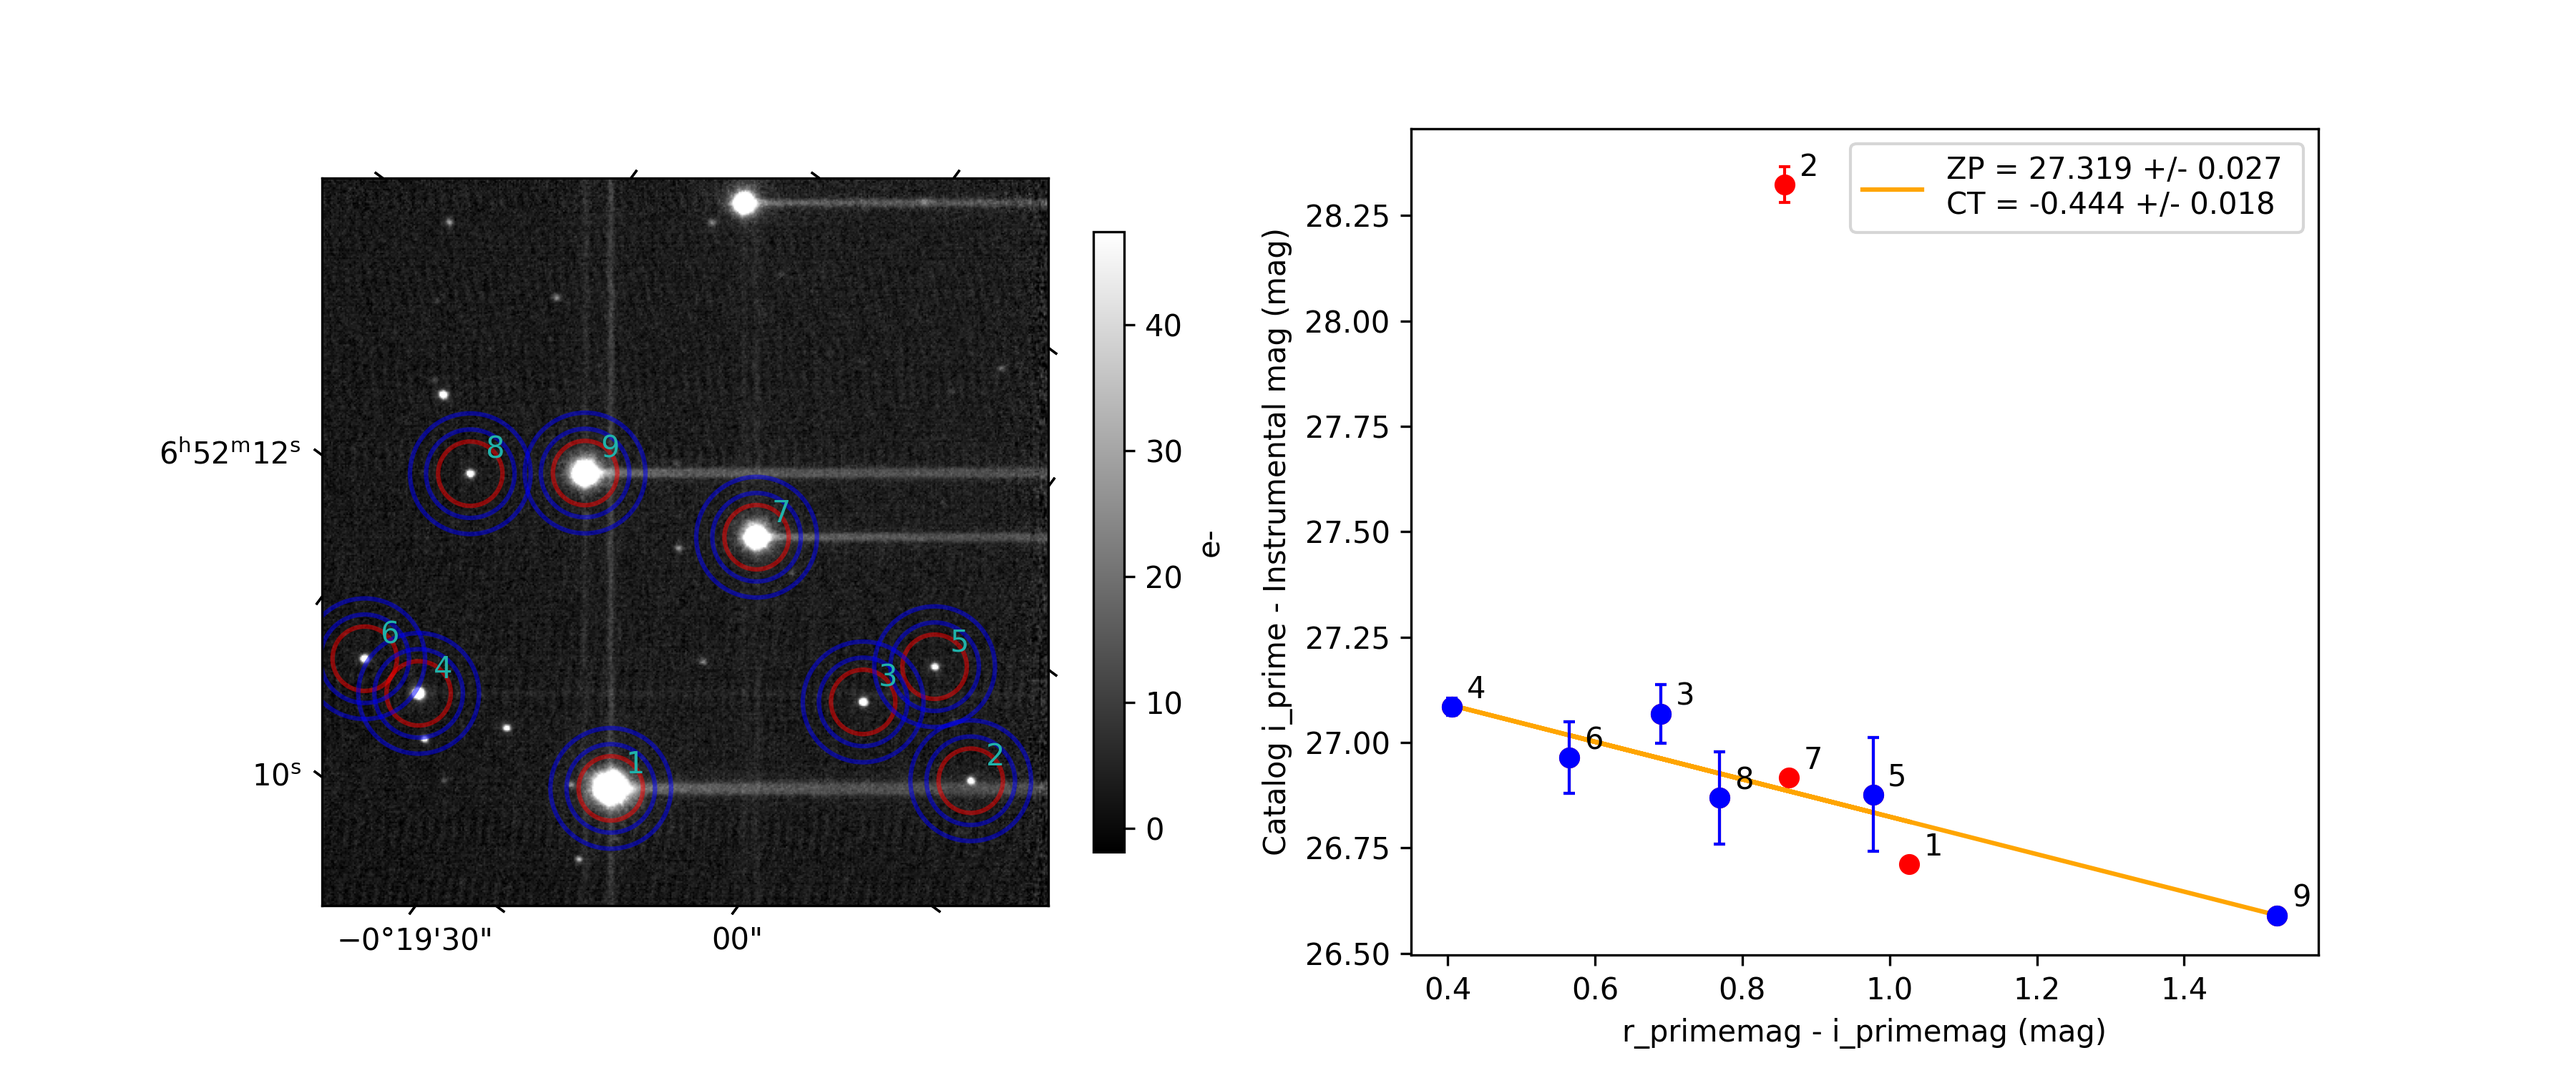
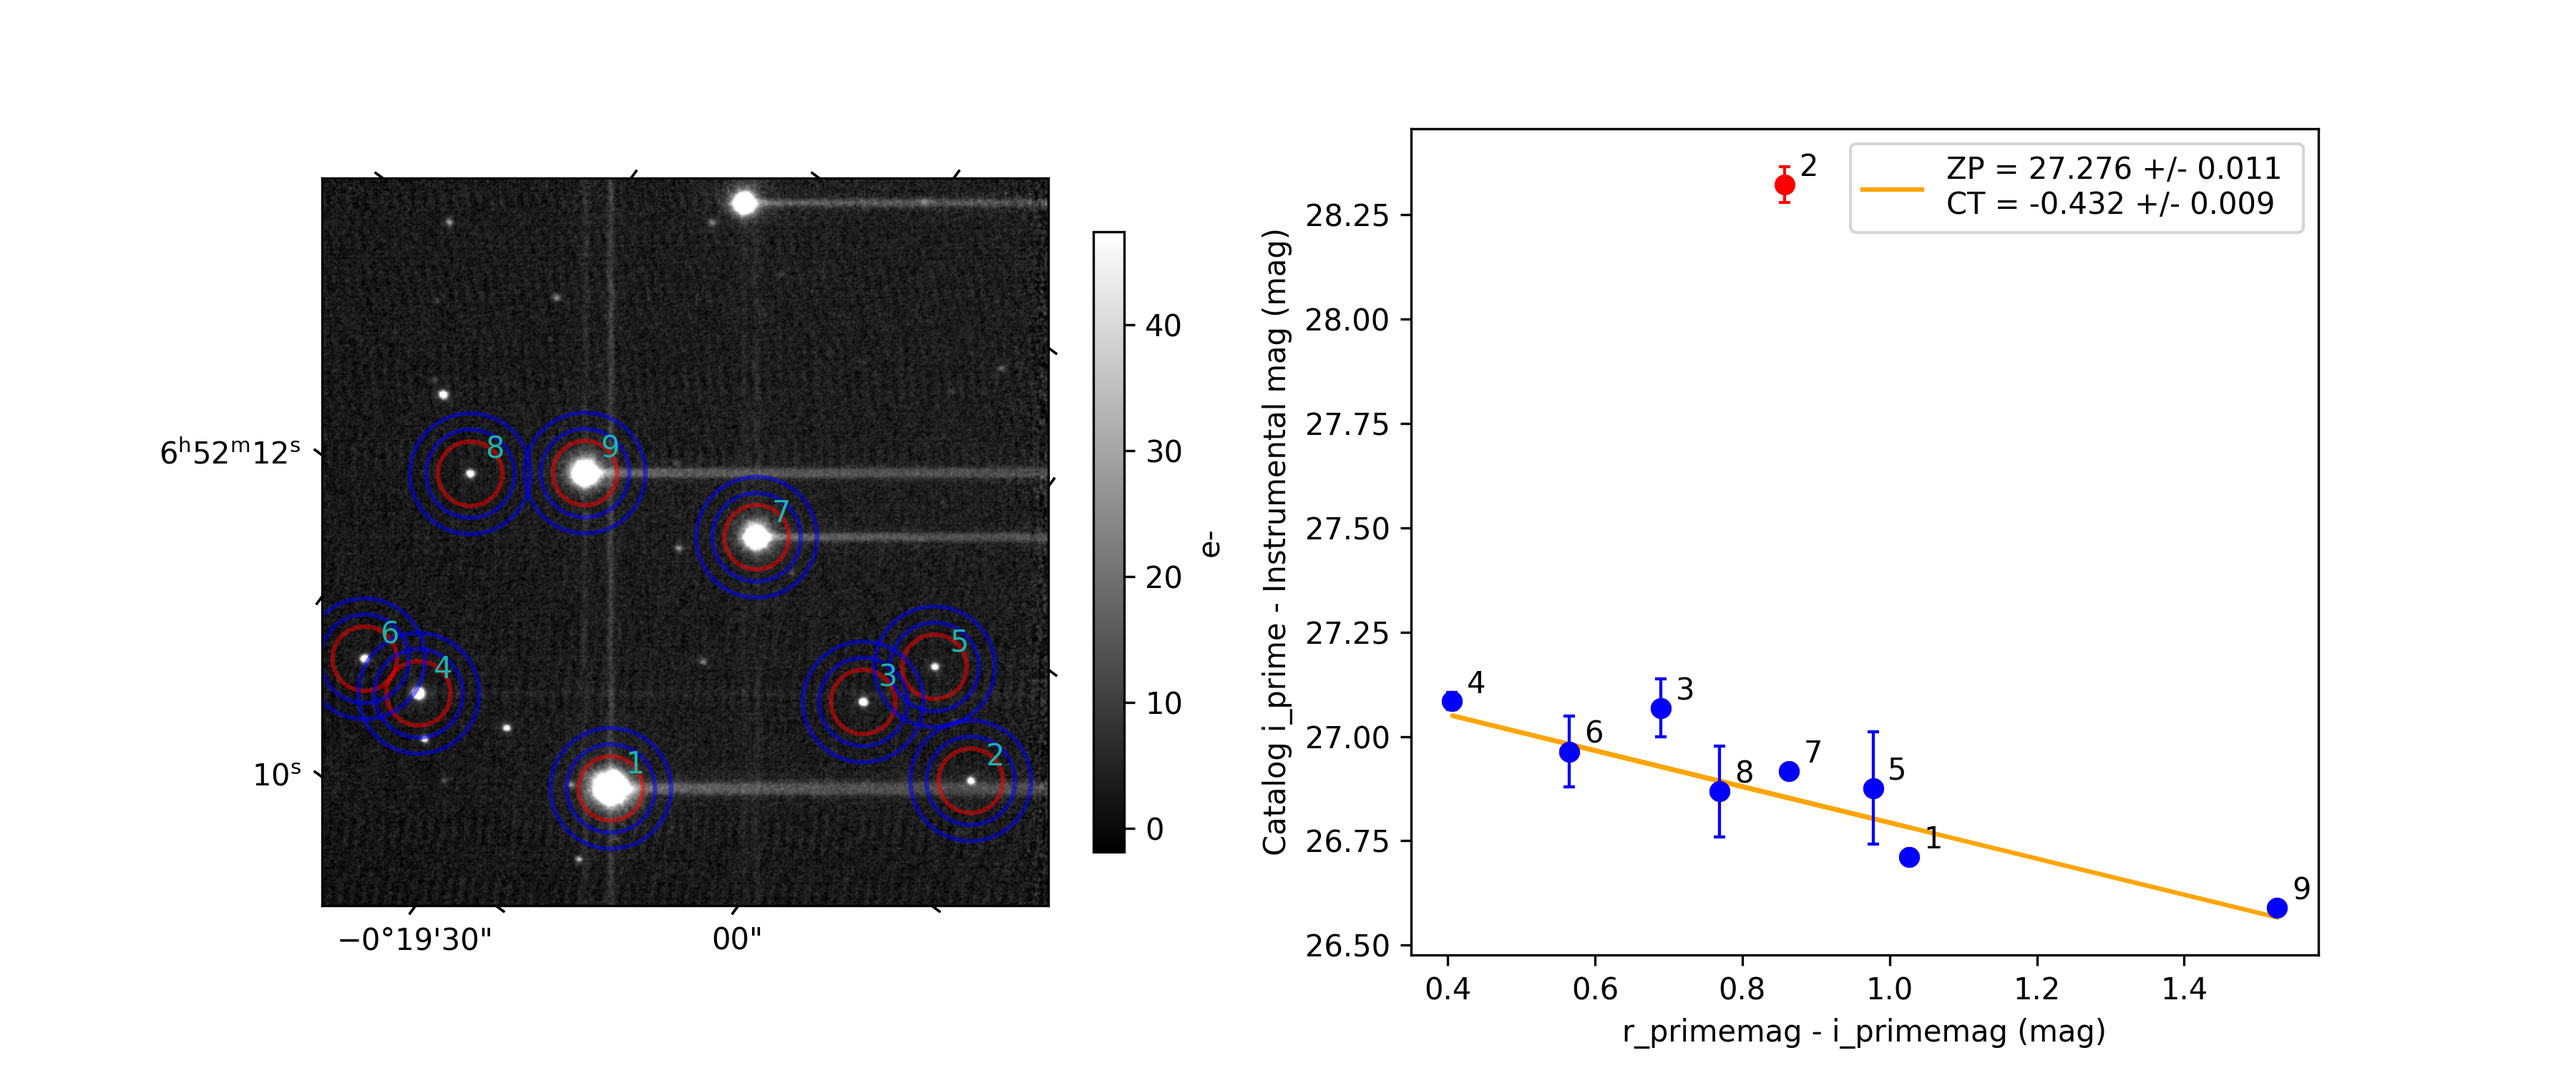
final details

diff --git a/zp_estimation.py b/zp_estimation.py
@@ -184,6 +184,15 @@ def zp_estimation(global_path, filter, config, cat_stetson):
     dy_peak = dy[(dy >= dy_min) & (dy < dy_max)]
     dx_shift = np.median(dx_peak) #median within the peak bin in x
     dy_shift = np.median(dy_peak) #median within the peak bin in y
+    #in the ra and dec directions
+    ny, nx = science_image_final.shape
+    x0 = nx / 2
+    y0 = ny / 2
+    ra0, dec0 = wcs_data.wcs_pix2world(x0, y0, 0)
+    ra1, dec1 = wcs_data.wcs_pix2world(x0 + dx_shift, y0 + dy_shift, 0)
+    c0 = SkyCoord(ra0*u.deg, dec0*u.deg, frame="icrs")
+    c1 = SkyCoord(ra1*u.deg, dec1*u.deg, frame="icrs")
+    dra, ddec = c0.spherical_offsets_to(c1)
     #we apply the shift to the catalog coordinates to match them with the detected sources coordinates
     x_cat_shift = x_cat + dx_shift
     y_cat_shift = y_cat + dy_shift
@@ -280,8 +289,7 @@ def zp_estimation(global_path, filter, config, cat_stetson):
             absolute_sigma=True
         )
         resid = delta_mag_sig - model(color_cat_sig, *popt)
-        chi = resid / delta_mag_error_sig
-        mask = np.abs(chi) < outlier_thresh
+        mask = np.abs(resid) < outlier_thresh*np.std(resid)
 
         color_cat_sig = color_cat_sig[mask]
         delta_mag_sig = delta_mag_sig[mask]
@@ -314,7 +322,7 @@ def zp_estimation(global_path, filter, config, cat_stetson):
     plt.legend()
     plt.savefig(global_path+'diag_plots'+f'/{filter}_zp_estimation.png', dpi=300)
 
-    return zp, zp_error, ct, ct_error
+    return zp, zp_error, ct, ct_error, (dx_shift, dy_shift), (dra.to(u.arcsec).value, ddec.to(u.arcsec).value)
 
 def load_shared(global_path):
     with open(f'{global_path}config.yaml', 'r') as f:
@@ -379,6 +387,9 @@ def main():
         dtype=['str', 'float', 'float', 'float', 'float']
     )
 
+    xy_shifts = []
+    ra_dec_shifts = []
+
     with ProcessPoolExecutor(max_workers=10) as executor:
         futures = {
             executor.submit(
@@ -393,14 +404,25 @@ def main():
 
         for future in as_completed(futures):
             filt = futures[future]
-            zp, zp_error, ct, ct_error = future.result()
+            zp, zp_error, ct, ct_error, xy_shift, ra_dec_shift = future.result()
             table_results.add_row([filt, zp, zp_error, ct, ct_error])
+            xy_shifts.append(xy_shift)
+            ra_dec_shifts.append(ra_dec_shift)
 
     table_results.write(
         global_path + 'zp_results.csv',
         format='csv',
         overwrite=True
     )
+
+    xy_shifts = np.array(xy_shifts)
+    mean_dx = np.mean(xy_shifts[:, 0])
+    mean_dy = np.mean(xy_shifts[:, 1])
+    print(f'Mean shift between detected sources and catalog sources across all filters: dx = {mean_dx:.2f} pixels, dy = {mean_dy:.2f} pixels')
+    ra_dec_shifts = np.array(ra_dec_shifts)
+    mean_dra = np.mean(ra_dec_shifts[:, 0])
+    mean_ddec = np.mean(ra_dec_shifts[:, 1])
+    print(f'Mean shift in RA and Dec between detected sources and catalog sources across all filters: dra = {mean_dra:.2f}, ddec = {mean_ddec:.2f}')
 
 if __name__ == "__main__":
     main()
